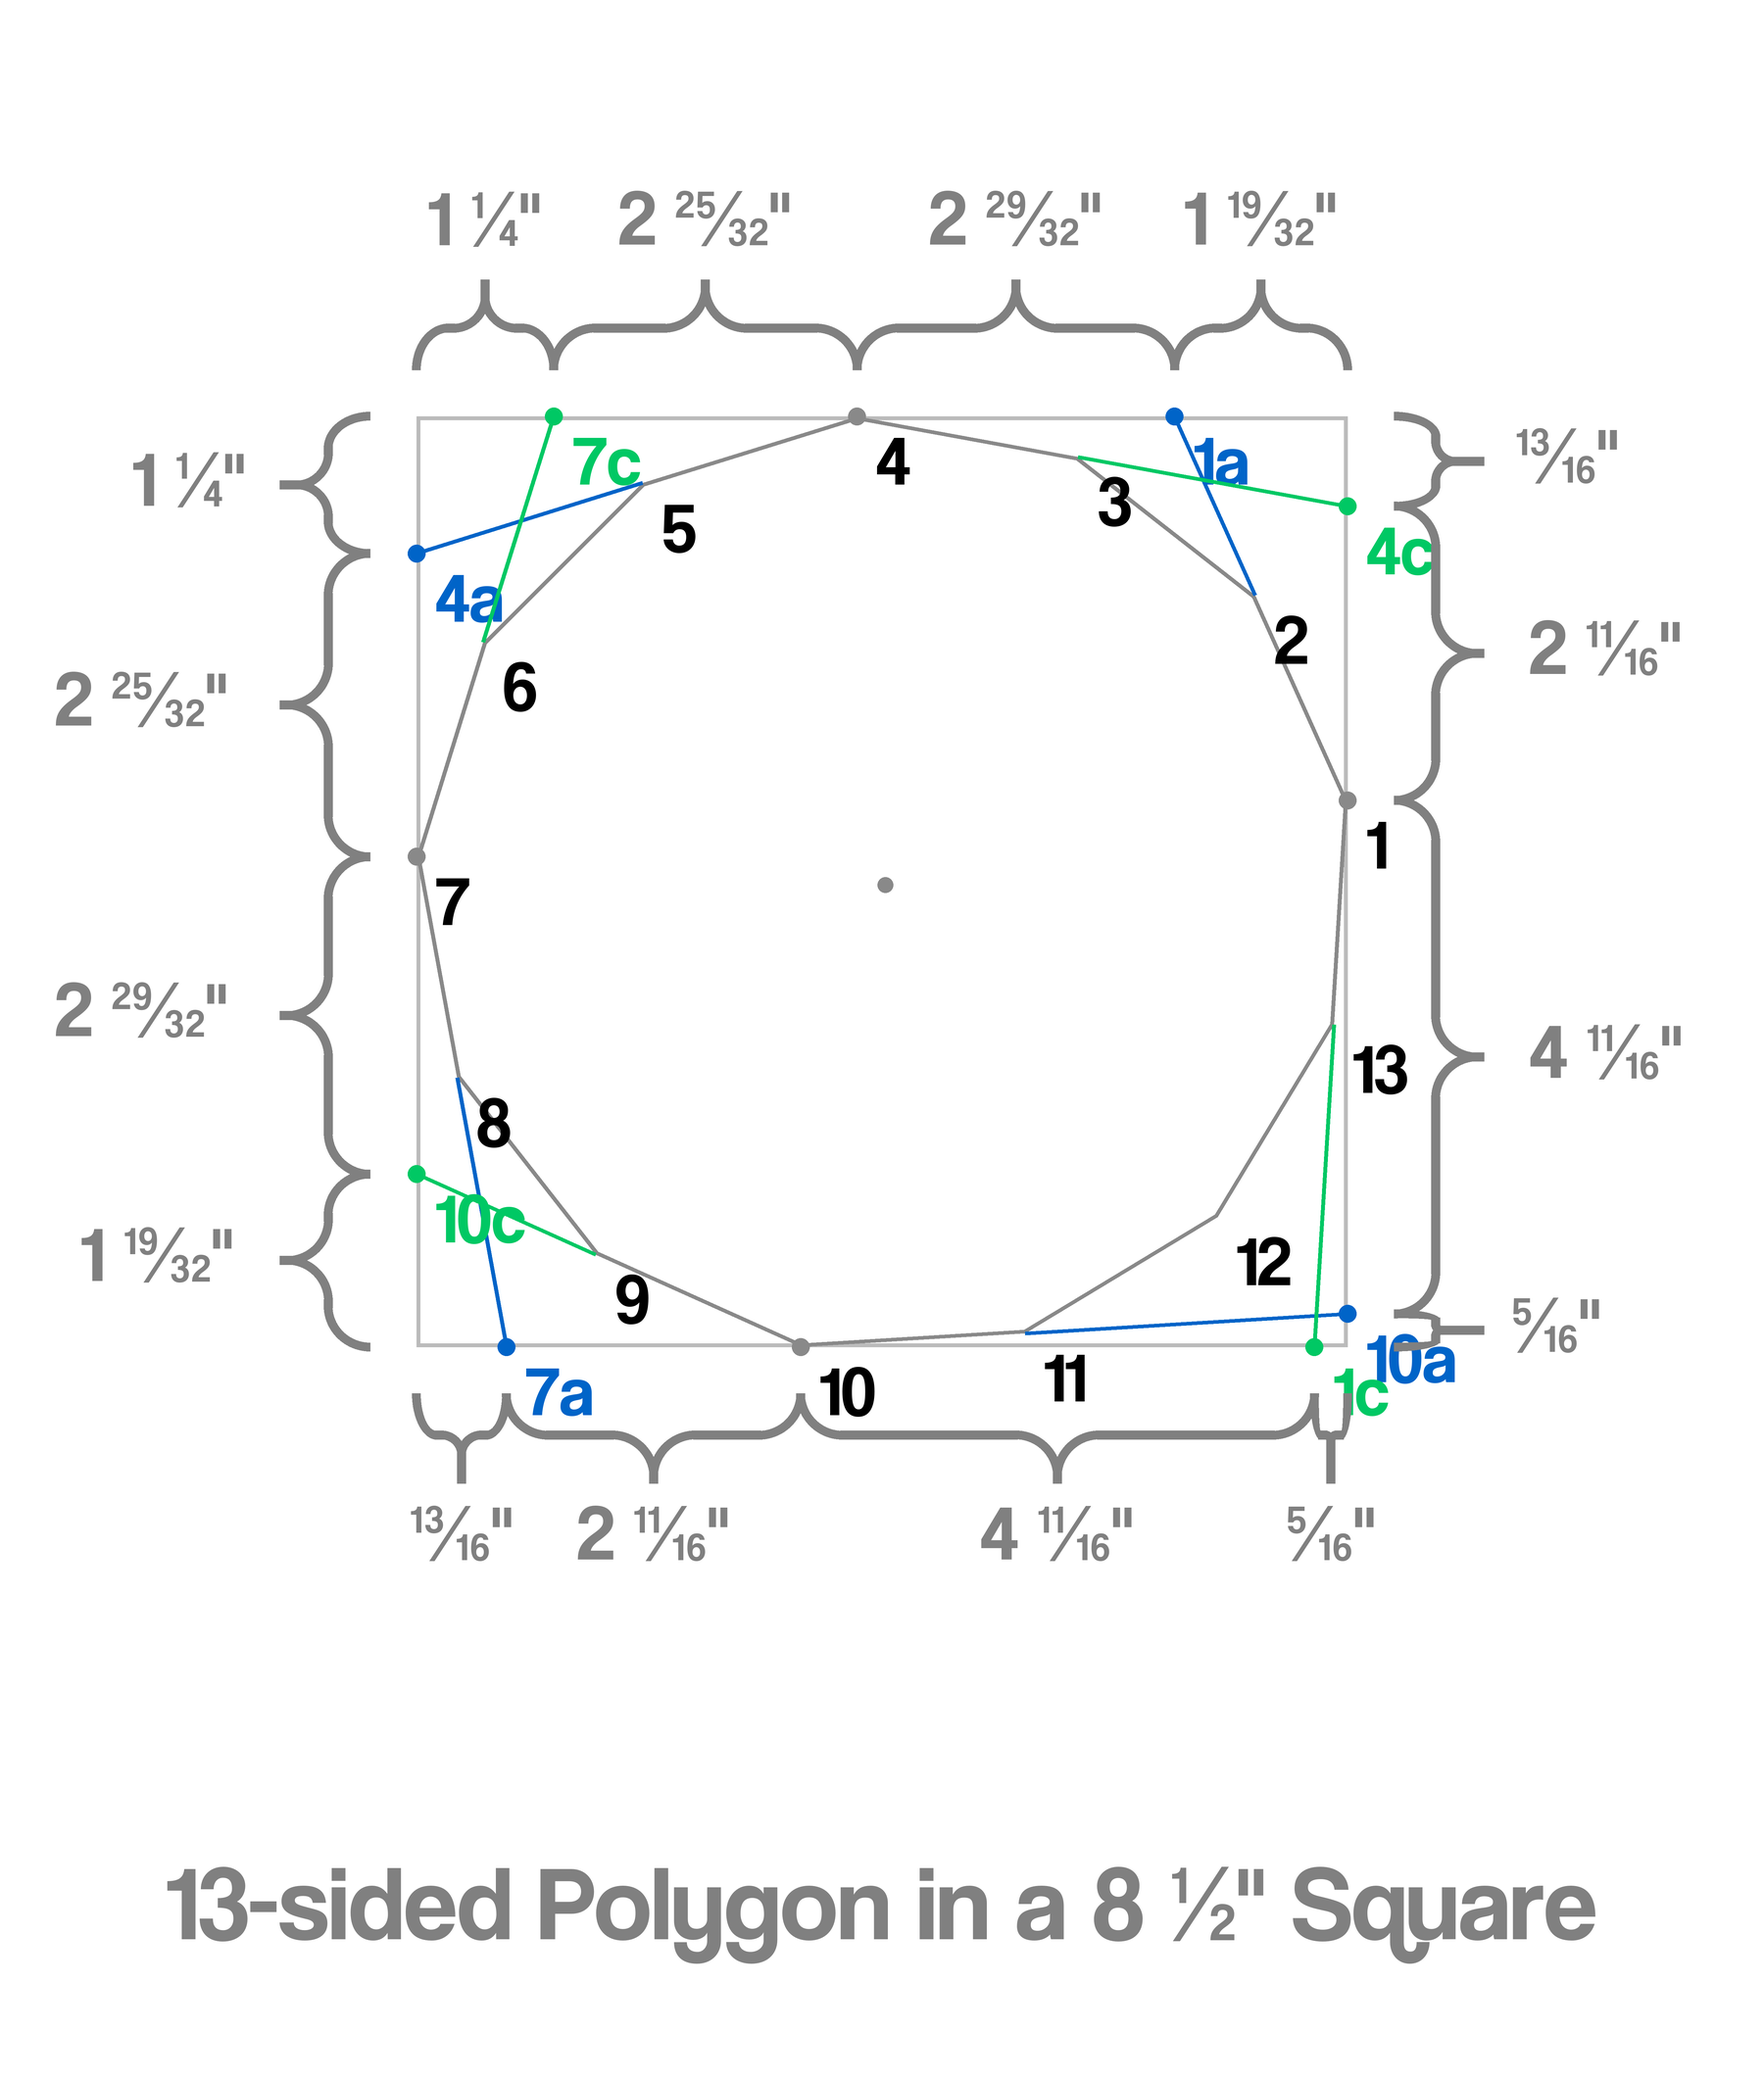
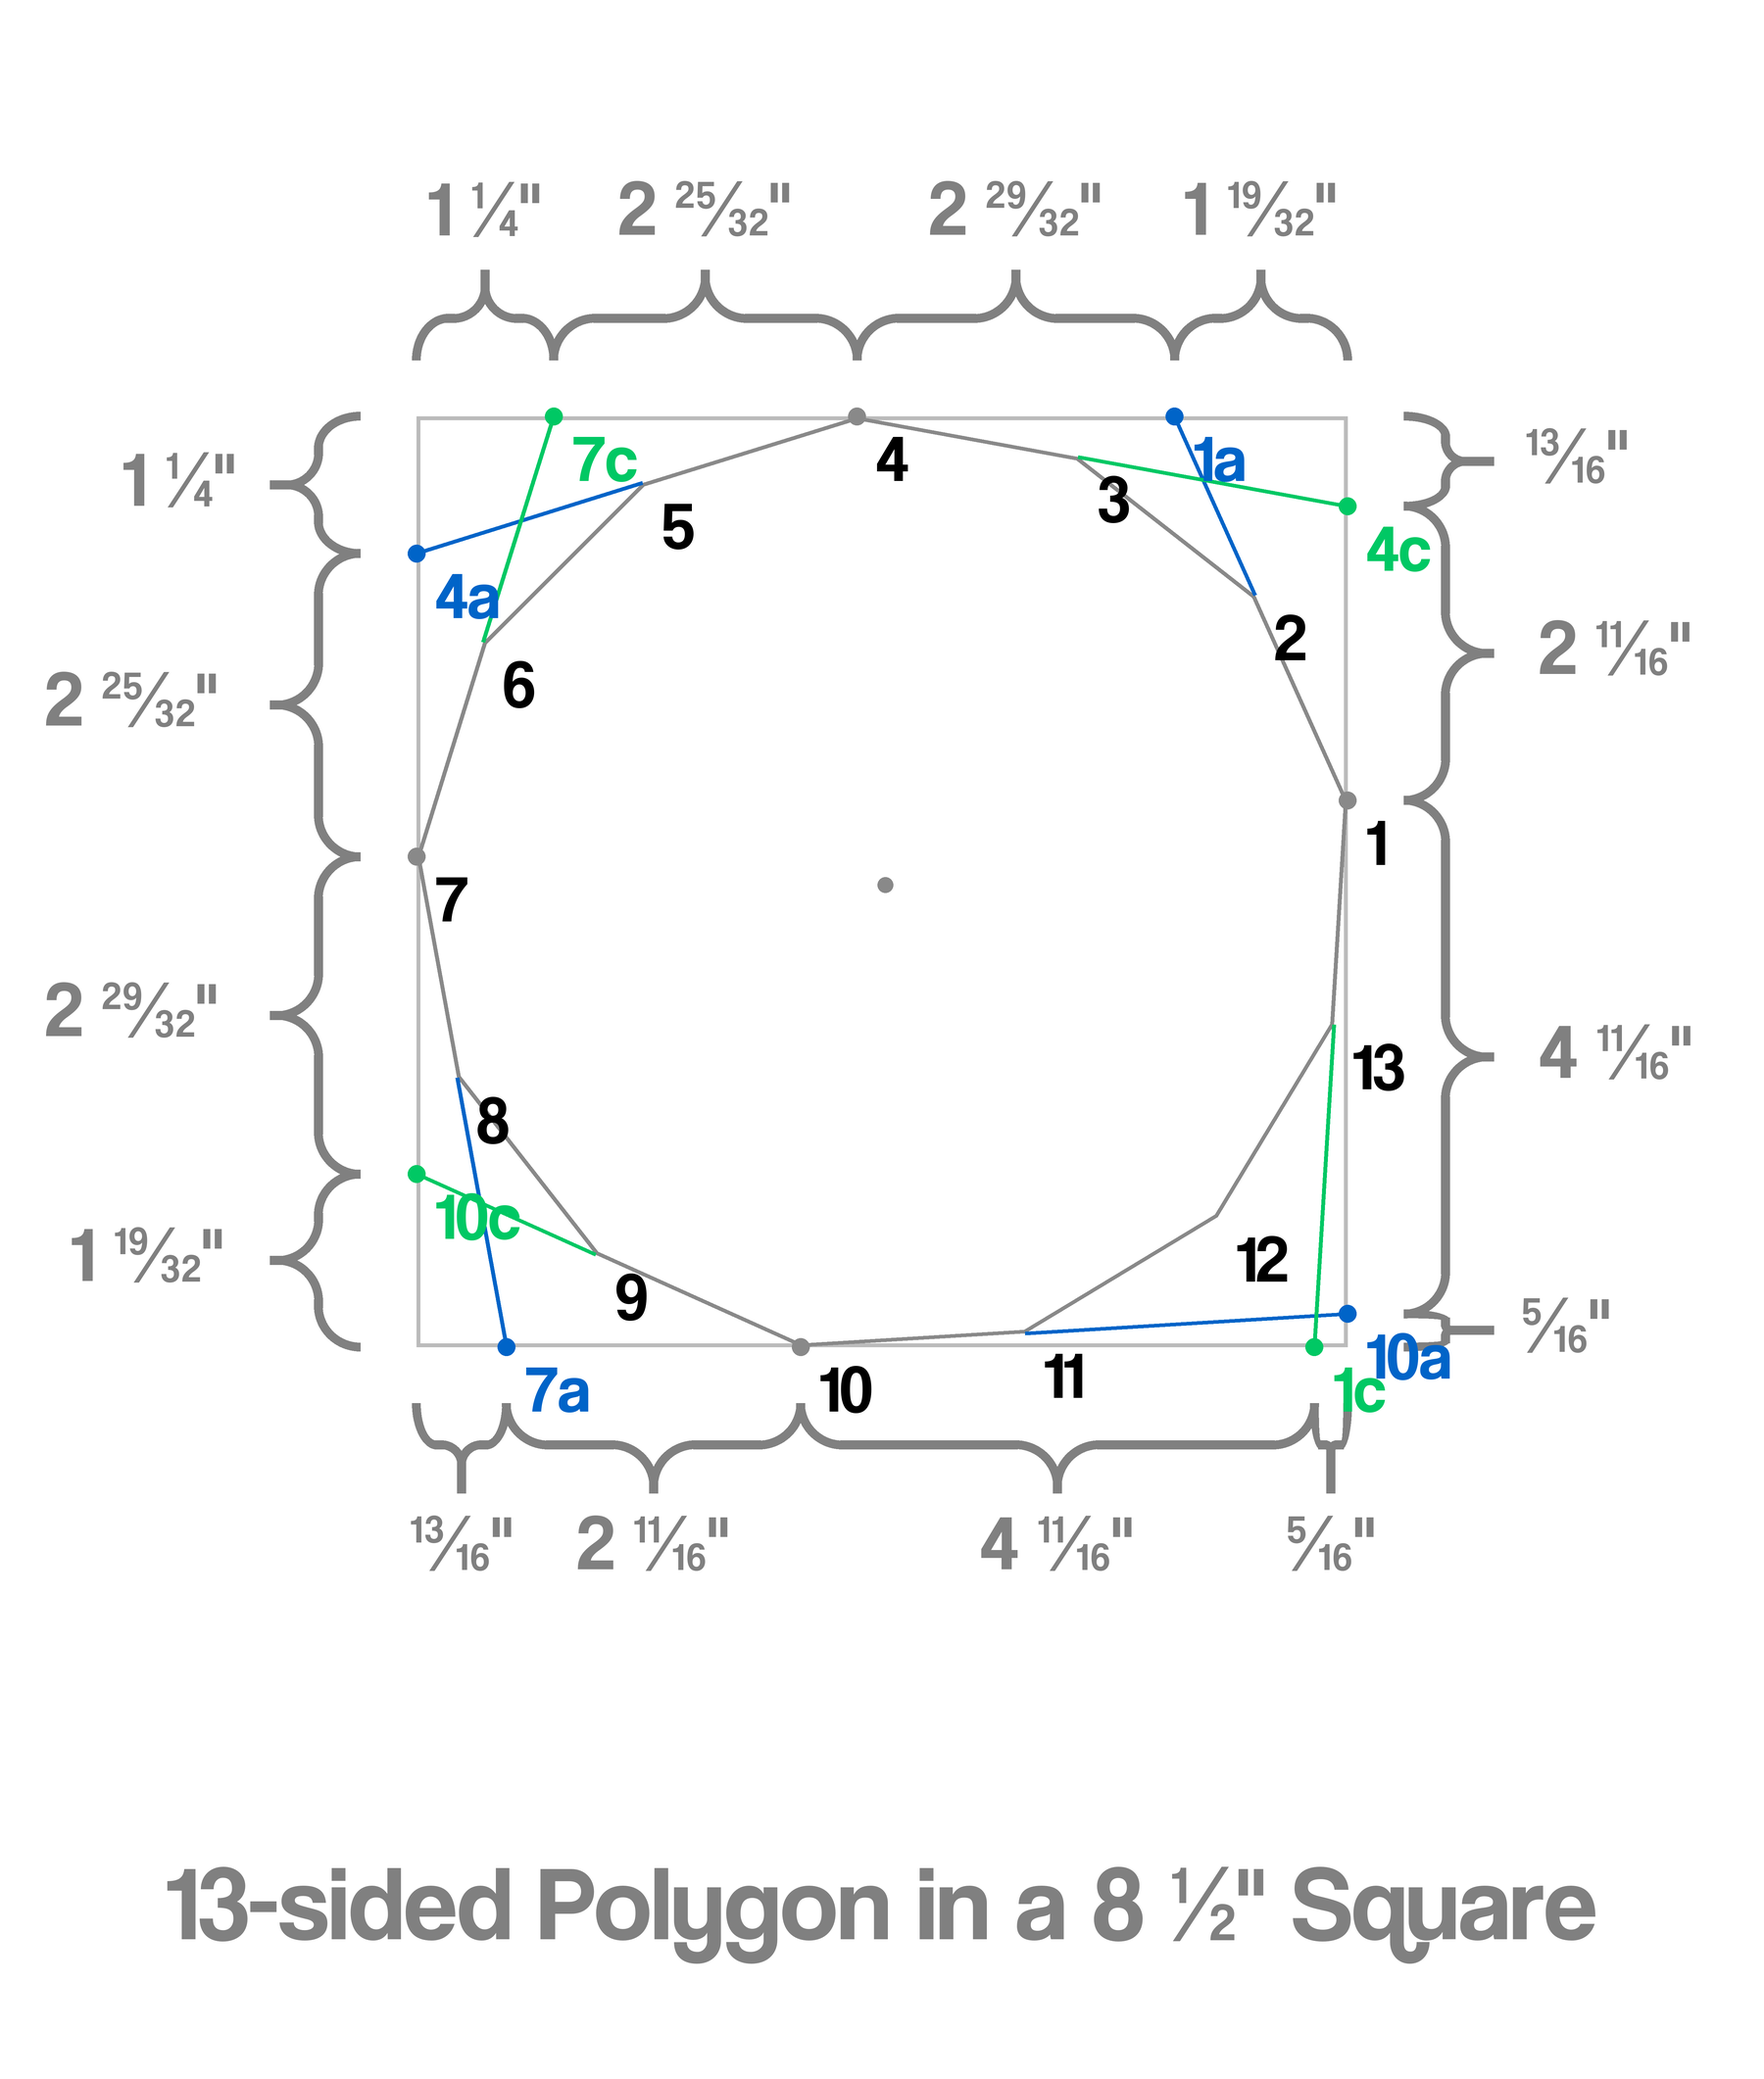
Add files via upload

diff --git a/maxpolygon/diagram/__init__.py b/maxpolygon/diagram/__init__.py
@@ -54,10 +54,11 @@ def draw_diagram(
     measure_font = ImageFont.truetype(font_path, size=MEASURE_FONT_SIZE)
 
     # 2) Create the image and draw shapes.
-    img = create_basic_diagram(
+    img, labels_img = create_basic_diagram(
         coords, center, indexed_hint_points, paper_size, invert_y
     )
     draw = ImageDraw.Draw(img)
+    label_draw = ImageDraw.Draw(labels_img)
 
     # 3) Determine the lengths
     #    of the subdivided side lengths for each edge.
@@ -92,6 +93,7 @@ def draw_diagram(
         label_edge(
             label_str=to_label_string(sublength),
             draw=draw,
+            label_draw=label_draw,
             start_xy=(px_right_x, px_y_start),
             end_xy=(px_right_x, px_y_end),
             px_open=PX_OPEN,
@@ -109,6 +111,7 @@ def draw_diagram(
         label_edge(
             label_str=to_label_string(sublength),
             draw=draw,
+            label_draw=label_draw,
             start_xy=(px_left_x, px_y_start),
             end_xy=(px_left_x, px_y_end),
             px_open=PX_OPEN,
@@ -126,6 +129,7 @@ def draw_diagram(
         label_edge(
             label_str=to_label_string(sublength),
             draw=draw,
+            label_draw=label_draw,
             start_xy=(px_x_start, px_top_y),
             end_xy=(px_x_end, px_top_y),
             px_open=PX_OPEN,
@@ -143,6 +147,7 @@ def draw_diagram(
         label_edge(
             label_str=to_label_string(sublength),
             draw=draw,
+            label_draw=label_draw,
             start_xy=(px_x_start, px_bottom_y),
             end_xy=(px_x_end, px_bottom_y),
             px_open=PX_OPEN,
@@ -150,6 +155,11 @@ def draw_diagram(
             bracket_thickness_px=BRACKET_THICKNESS_PX,
         )
 
+    # 5) Collapse the labels layer down on top of the image.
+    img = Image.alpha_composite(img, labels_img)
+    img = img.convert("RGB")
+
+    # 6) Size the image down and return it if the title is disabled.
     if TITLE_LOCATION is None:
         img = img.resize(
             (img.width // ANTIALIAS, img.height // ANTIALIAS),
@@ -157,13 +167,13 @@ def draw_diagram(
         )
         return img
 
-    # 5) Add a title to the image.
-    # 5a) Determine the title string and load the font.
+    # 7) Add a title to the image.
+    # 7a) Determine the title string and load the font.
     measure = to_label_string(paper_size)
     title_str = f"{len(coords)}-sided Polygon in a {measure} Square"
     title_font = ImageFont.truetype(font_path, size=TITLE_FONT_SIZE)
 
-    # 5b) Use the bbox to draw the text in the center of a separate image.
+    # 7b) Use the bbox to draw the text in the center of a separate image.
     bbox = title_font.getbbox(title_str)
     w, h = bbox[2] - bbox[0], int((bbox[3] - bbox[1]) * 2.5)
     title_img = Image.new("RGB", (IMG_SIZE, h), "white")
@@ -175,13 +185,12 @@ def draw_diagram(
         font=title_font,
     )
 
-    # 5c) Add the title image.
+    # 7c) Add the title image.
     total_height = IMG_SIZE + h + TITLE_PADDING_PX
-
     # Create a new blank image with combined height
     combined = Image.new("RGB", (IMG_SIZE, total_height), "white")
 
-    # Paste the images on top of each other
+    # 7d) Paste the images on top of each other
     if TITLE_LOCATION == "top":
         combined.paste(title_img, (0, 0))
         combined.paste(img, (0, TITLE_PADDING_PX + title_img.height))
@@ -189,6 +198,7 @@ def draw_diagram(
         combined.paste(img, (0, 0))
         combined.paste(title_img, (0, img.height + TITLE_PADDING_PX))
 
+    # 7e) Size the image down and return it.
     combined = combined.resize(
         (combined.width // ANTIALIAS, combined.height // ANTIALIAS),
         resample=Image.LANCZOS,

diff --git a/maxpolygon/diagram/_basic_diagram.py b/maxpolygon/diagram/_basic_diagram.py
@@ -52,8 +52,10 @@ def create_basic_diagram(
     ]
 
     # 3) Create the image and drawing object.
-    img = Image.new("RGB", (IMG_SIZE, IMG_SIZE), "white")
+    img = Image.new("RGBA", (IMG_SIZE, IMG_SIZE), (255, 255, 255, 255))
+    labels_img = Image.new("RGBA", (IMG_SIZE, IMG_SIZE), (0, 0, 0, 0))
     draw = ImageDraw.Draw(img)
+    labels_draw = ImageDraw.Draw(labels_img)
 
     # 4) Draw the square border.
     draw.rectangle(
@@ -97,7 +99,7 @@ def create_basic_diagram(
     if LABEL_POLY_VERTS:
         for index, (p_x, p_y) in enumerate(px_coords):
             text_pos = (p_x + LABEL_OFFSET_X, p_y + LABEL_OFFSET_Y)
-            draw.text(text_pos, str(index + 1), fill="black", font=big_font)
+            labels_draw.text(text_pos, str(index + 1), fill="black", font=big_font)
 
     # 6b) Draw the hint point vertices and labels.
     r = HINT_VERT_RADIUS
@@ -122,10 +124,10 @@ def create_basic_diagram(
                 base_num = (index + off) % len(coords) + 1
                 letter_str = f"{base_num}{LETTERS[point_index]}"
                 text_pos = (p_x + LABEL_OFFSET_X, p_y + LABEL_OFFSET_Y)
-                draw.text(text_pos, letter_str, fill=fill_color, font=big_font)
+                labels_draw.text(text_pos, letter_str, fill=fill_color, font=big_font)
                 draw.line(
                     [main_point, (p_x, p_y)], fill=fill_color, width=4 * ANTIALIAS
                 )
 
-    # 7) Return the finished PIL image.
-    return img
+    # 7) Return the finished PIL image and the layer of labels.
+    return img, labels_img

diff --git a/maxpolygon/_config.py b/maxpolygon/_config.py
@@ -26,7 +26,7 @@ TO_THE_32TH = True  # only applicable for inches.
 METRIC_DECIMAL_PRECISION = 1  #  only applicable for metric.
 UNITS_LABEL = "cm"  #  only applicable for metric.
 BRACKET_THICKNESS_PX = 90 * ANTIALIAS
-PX_PADDING_FROM_EDGE = 45 * ANTIALIAS  # between brackets and paper (in px).
+PX_PADDING_FROM_EDGE = 55 * ANTIALIAS  # between brackets and paper (in px).
 
 # Vertex render settings.
 CENTER_VERT_RADIUS = 8 * ANTIALIAS
@@ -34,7 +34,7 @@ HINT_VERT_RADIUS = 9 * ANTIALIAS
 
 # Font settings.
 TITLE_FONT_SIZE = 108 * ANTIALIAS
-BIG_FONT_SIZE = 72 * ANTIALIAS
+BIG_FONT_SIZE = 68 * ANTIALIAS  # used for the vertices.
 MEASURE_FONT_SIZE = 80 * ANTIALIAS
 
 # Label settings.

diff --git a/maxpolygon/diagram/_label_edge.py b/maxpolygon/diagram/_label_edge.py
@@ -22,6 +22,7 @@ _measure_font = None
 def label_edge(
     label_str: str,
     draw,
+    label_draw,
     start_xy: tuple,
     end_xy: tuple,
     px_open,
@@ -175,4 +176,4 @@ def label_edge(
         text_pos = (text_pos[0], text_pos[1] + text_h)
 
     # 9) Label the bracket with the measurement.
-    draw.text(text_pos, label_str, fill=fill, font=_measure_font)
+    label_draw.text(text_pos, label_str, fill=fill, font=_measure_font)
